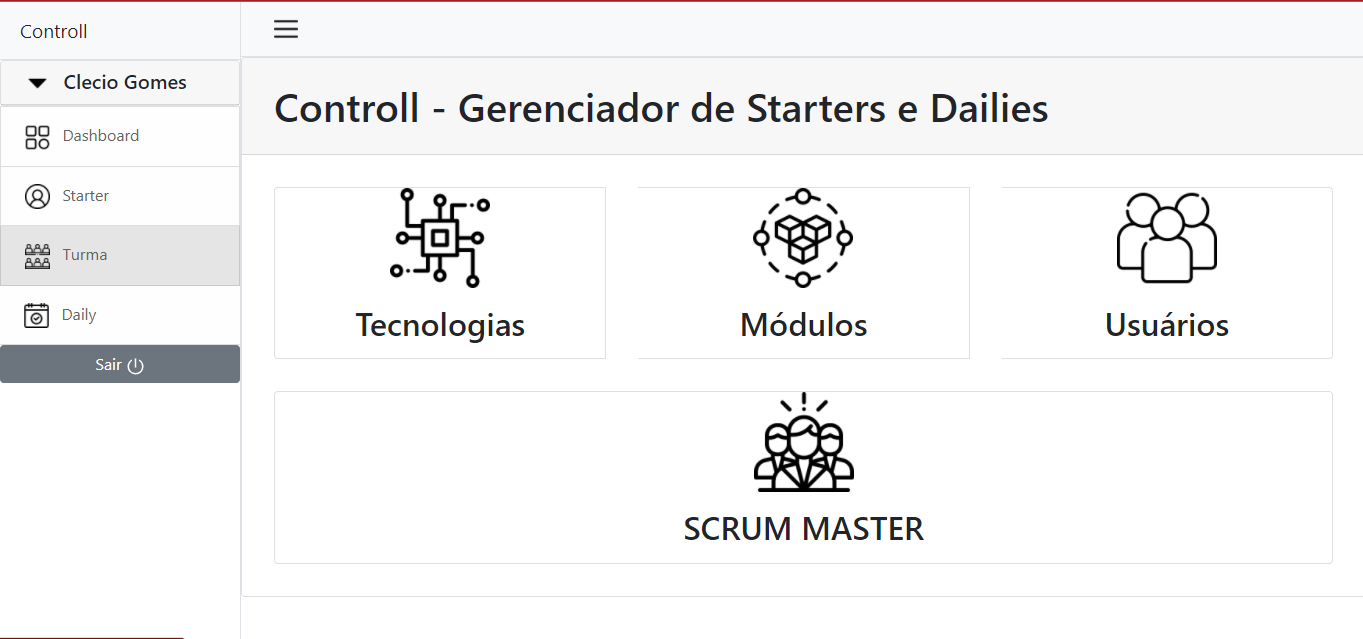
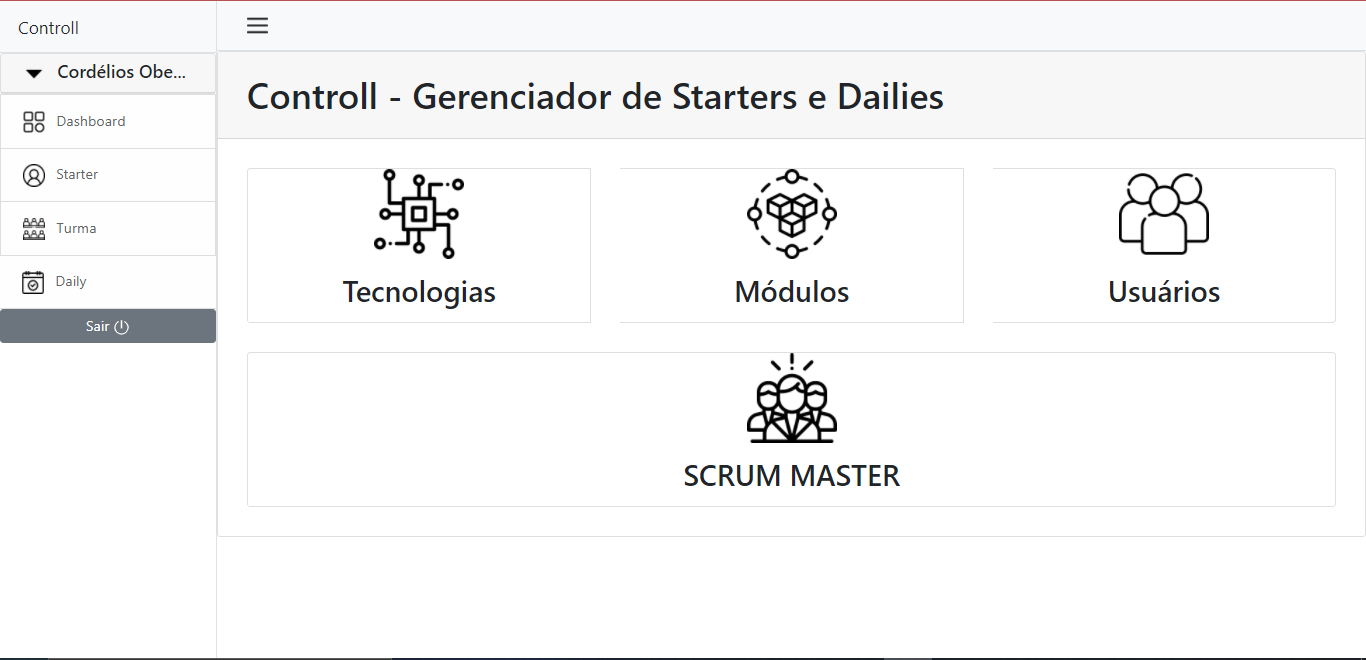
docs/chore: Alterado screenshot e adicioando mais dados na população do banco de dados

diff --git a/src/main/java/com/start/controll/configuration/database/PopulateDatabase.java b/src/main/java/com/start/controll/configuration/database/PopulateDatabase.java
@@ -112,9 +112,9 @@ public class PopulateDatabase {
       return;
 
     var users = userService.createManyUsers(
-        new User("Clecio Gomes", "clecio.silva@gft.com", "Gft2021", "ADMIN"),
-        new User("Astrogildo Perrengue", "astrogildo-scm@example.com", "Gft2021", "SCRUM_MASTER"),
-        new User("Martiano Luanova", "martiano-scm@example.com", "Gft2021", "SCRUM_MASTER")
+        new User(" Cordélios Oberon", "oberon-admin@sunny.com", "Lactea20NN", "ADMIN"),
+        new User("Astrogildo Alcântra", "astrogildo-scm@sunny.com", "Lactea20NN", "SCRUM_MASTER"),
+        new User("Martiano Luanova", "martiano-scm@sunny.com", "Lactea20NN", "SCRUM_MASTER")
     );
   }
 
@@ -161,7 +161,7 @@ public class PopulateDatabase {
     var dotnet = technologyService.findTechnologyById(2L).get();
 
     var module = moduleService.findModuleById(1L).get();
-    var scrumMaster = userService.findUserByEmail("astrogildo-scm@example.com").get();
+    var scrumMaster = userService.findUserByEmail("astrogildo-scm@sunny.com").get();
 
     var group = groupService.createGroup(new GroupDaily(
         "Grupo 1 - Java - Desafio MVC", java, scrumMaster,  starters, module
@@ -171,7 +171,7 @@ public class PopulateDatabase {
         "Grupo 2 - .NET - Desafio MVC", dotnet, scrumMaster,  starters, module
     )).get();
 
-    var registers = group.getStarters().stream().map(starter -> new Daily(
+    var registers1 = group.getStarters().stream().map(starter -> new Daily(
         new Date(), String.format("Fazendo + %s", starter.getId()),
         String.format("Concluido + %s", starter.getId()),
         String.format("Impedimento + %s", starter.getId()),
@@ -179,9 +179,20 @@ public class PopulateDatabase {
         module)
     ).collect(Collectors.toList());
 
+    var registers2 = group.getStarters().stream().map(starter -> new Daily(
+        new Date(), String.format("Fazendo + %s", starter.getId()),
+        String.format("Concluido + %s", starter.getId()),
+        String.format("Impedimento + %s", starter.getId()),
+        Boolean.TRUE,  starter, group,
+        module)
+    ).collect(Collectors.toList());
+
+    final Integer start = 2021 - 1900;
+
     group.setDailies(
         List.of(
-            new RegisterDaily(new Date(), group, registers)
+            new RegisterDaily(new Date(start + 1, Calendar.DECEMBER, 2), group, registers1),
+            new RegisterDaily(new Date(start + 1, Calendar.DECEMBER, 3), group, registers2)
         )
     );
 

diff --git a/README.md b/README.md
@@ -31,6 +31,9 @@ Criar um controle de Starter para GFT.
     <img  width="350" src="screenshot/04.png" />
     <img  width="350" src="screenshot/05.png" />
     <img  width="350" src="screenshot/06.png" />
+    <img  width="350" src="screenshot/07.png" />
+    <img  width="350" src="screenshot/08.png" />
+    <img  width="350" src="screenshot/09.png" />
 </p>
 
 ## :cd: Iniciar
@@ -42,19 +45,19 @@ Use o ```mvnw``` para ambiente Linux e ```mvnw.cmd``` para Windows
 ```
 
 ## Usuários:
-- Clecio Gomes
-  - login: clecio.silva@gft.com
-  - senha: Gft2021
+- Cordélios Oberon
+  - login: oberon-admin@sunny.com
+  - senha: Lactea20NN
   - tipo: ADMIN
 
-- Astrogildo Perrengue
-    - login: astrogildo-scm@example.com
-    - senha: Gft2021
+- Astrogildo Alcântra
+    - login: astrogildo-scm@sunny.com
+    - senha: Lactea20NN
     - tipo: SCRUM_MASTER
 
 - Martiano Luanova
-    - login: martiano-scm@example.com
-    - senha: Gft2021
+    - login: martiano-scm@sunny.com
+    - senha: Lactea20NN
     - tipo: SCRUM_MASTER
   
 
